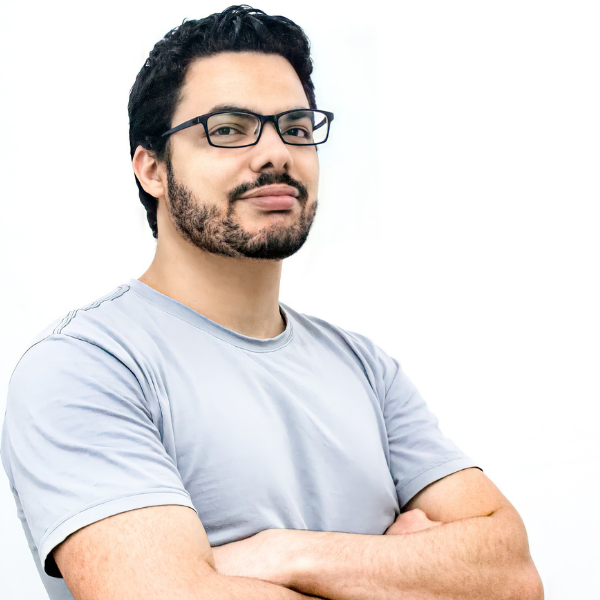
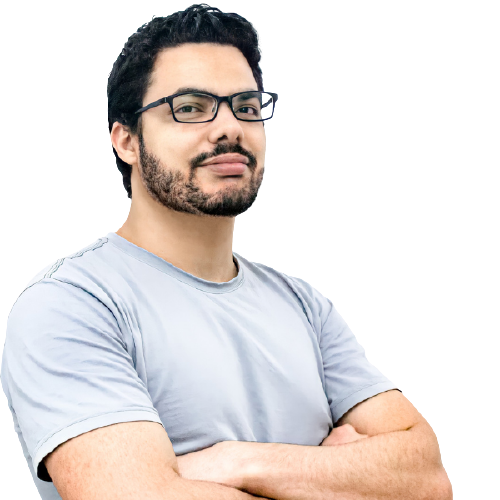
a contact form and google map added

diff --git a/index.html b/index.html
@@ -29,7 +29,7 @@
         </section>
 
         <section class="two-col about-col">
-            <div class="image">
+            <div class="ppimage">
                 <img src="images/male/about.png" alt="">
             </div>
             <div class="content">
@@ -77,24 +77,24 @@
 
                 <table>
                     <tr>
-                        <td>Your name:</td>
+                        <td class="lcol">Your name:</td>
                         <td><input type="text"></td>
                     </tr>
                     <tr>
-                        <td>Your phone:</td>
+                        <td class="lcol">Your phone:</td>
                         <td><input type="text"></td>
                     </tr>
                     <tr>
-                        <td>Your address:</td>
+                        <td class="lcol">Your address:</td>
                         <td><input type="text"></td>
                     </tr>
                     <tr>
-                        <td>Your Order:</td>
+                        <td class="lcol">Your Order:</td>
                         <td><input type="text"></td>
                     </tr>
                     <tr>
                         <td></td>
-                        <td><input type="submit" value="Submit"></td>
+                        <td> <button type="submit">Submit</button> </td>
 
                     </tr>
                 </table>
@@ -102,11 +102,42 @@
             </form>
         </section>
 
-        <section class="menu">
+        <map name="Rajshahi">
+            <div class="mapouter">
+                <div class="gmap_canvas"><iframe width="1080" height="300" id="gmap_canvas"
+                        src="https://maps.google.com/maps?q=saheb%20bazar,%20rajshahi&t=&z=13&ie=UTF8&iwloc=&output=embed"
+                        frameborder="0" scrolling="no" marginheight="0" marginwidth="0"></iframe><a
+                        href="https://putlocker-is.org">putlocker</a><br>
+                    <style>
+                        .mapouter {
+                            position: relative;
+                            text-align: right;
+                            height: 300px;
+                            width: 800px;
+                        }
+                    </style><a href="https://www.embedgooglemap.net">how to add google maps to your website</a>
+                    <style>
+                        .gmap_canvas {
+                            overflow: hidden;
+                            background: none !important;
+                            height: 300px;
+                            width: 800px;
+                        }
+                    </style>
+                </div>
+            </div>
+        </map>
+
+        <section class="menu" style="display: none;">
             <a href="index.html">Home</a> | <a href="about.html">About me</a>
         </section>
 
+
+
     </div>
+    <footer>
+        Copyright &copy;2021, Food Fun. All rights reserved.
+    </footer>
 
 </body>
 

diff --git a/style.css b/style.css
@@ -3,10 +3,25 @@ body{font-family: 'Open Sans', sans-serif;}
 #main {width:60%; margin: 0px auto; padding: 10px;}
 section{margin: 0px 0px 50px;}
 section.about-col{
+    background-size:contain;
     background-image: url("images/shapes/sectionbg.jpg");
     background-position:left top; 
     background-repeat: no-repeat;
 }
+
+.image{
+    background-image: url("images/shapes/topppbg.png");
+    background-position: center center;
+    background-repeat: no-repeat;
+    background-size: contain;}
+
+.ppimage{
+background-image: url("images/shapes/pp_bg.png");
+background-position: center center;
+background-repeat: no-repeat;
+background-size: contain;}
+
+
 .two-col{display:flex;}
 .two-col div{width:50%;}
 .two-col div.content {padding: 70px 0px 0px;}
@@ -46,7 +61,7 @@ a:hover{
     border-top: 7px solid #6047EC;
 border-radius: 10px;}
 .three-col div img{width:100%;height:auto;}
-
+.menu {text-align: center;}
 .menu a{
     padding: 7px 20px; 
     background-image: linear-gradient(rgb(1, 112, 156), rgb(69, 38, 143)); 
@@ -58,5 +73,24 @@ border-radius: 10px;}
     margin-top: 20px; 
     outline: 1px solid blue;
 }
-section#orderus {max-width: 600px; margin: 0px auto;margin: 0px 0px 25px;}
+section#orderus {max-width: 600px; margin: 0px auto;}
 form{width: 100%;}
+footer{padding:20px 0px;background-color: teal; color: white; text-align: center;}
+
+form {
+    width: 100%;
+  }
+input {
+    width: 100%;
+  }
+textarea {
+    width: 100%;
+  }
+table{
+    width: 100%;margin-bottom:50px;
+}
+td.lcol{
+    width:120px;
+}
+ 
+
